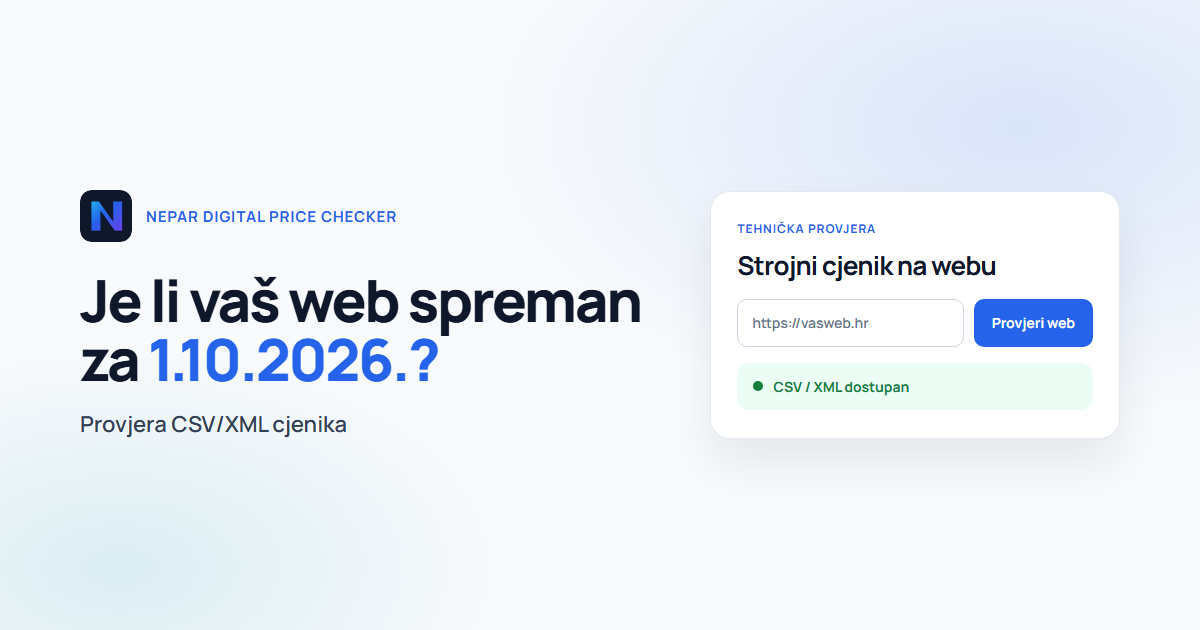
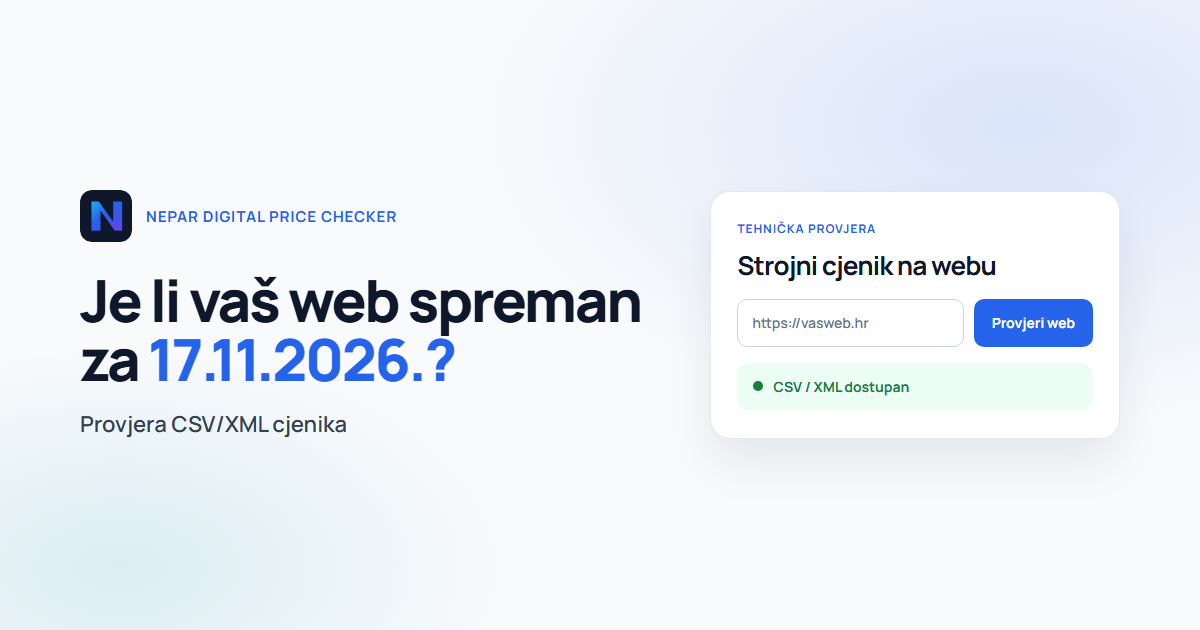
Update stale 1.10.2026. date to 17.11.2026. in news index and OG images.

Changed region(s): [[0.1233, 0.5127, 0.4008, 0.6032]]

diff --git a/src/news/NewsIndex.tsx b/src/news/NewsIndex.tsx
@@ -21,7 +21,7 @@ export function NewsIndex() {
         <h1>Vijesti o digitalnom cjeniku</h1>
         <p className="news-index-intro">
           Sažeci i vodiči usklađeni sa službenim izvorima — fokus na objavu CSV/XML cjenika i dodatnu
-          (sidrenu) cijenu od 1. listopada 2026.
+          (sidrenu) cijenu, uz privremenu odgodu primjene do 17.11.2026.
         </p>
       </header>
       <ul className="news-index-list">

diff --git a/scripts/og-template.html b/scripts/og-template.html
@@ -138,7 +138,7 @@
         <img class="mark" src="MARK_SRC" alt="" width="52" height="52" />
         <span>NEPAR Digital Price Checker</span>
       </div>
-      <h1>Je li vaš web spreman za <em>1.10.2026.?</em></h1>
+      <h1>Je li vaš web spreman za <em>17.11.2026.?</em></h1>
       <p class="support">Provjera CSV/XML cjenika</p>
     </div>
     <aside class="card" aria-hidden="true">

diff --git a/scripts/og-vijesti-template.html b/scripts/og-vijesti-template.html
@@ -65,7 +65,7 @@
       <img class="mark" src="MARK_SRC" alt="" width="52" height="52" />
       <span>NEPAR Publisher · Vijesti</span>
     </div>
-    <h1>Digitalni cjenik od 1.10.2026.</h1>
+    <h1>Digitalni cjenik do 17.11.2026.</h1>
     <div class="tags" aria-hidden="true">
       <span class="tag">CSV / XML</span>
       <span class="tag">sidrena cijena</span>
